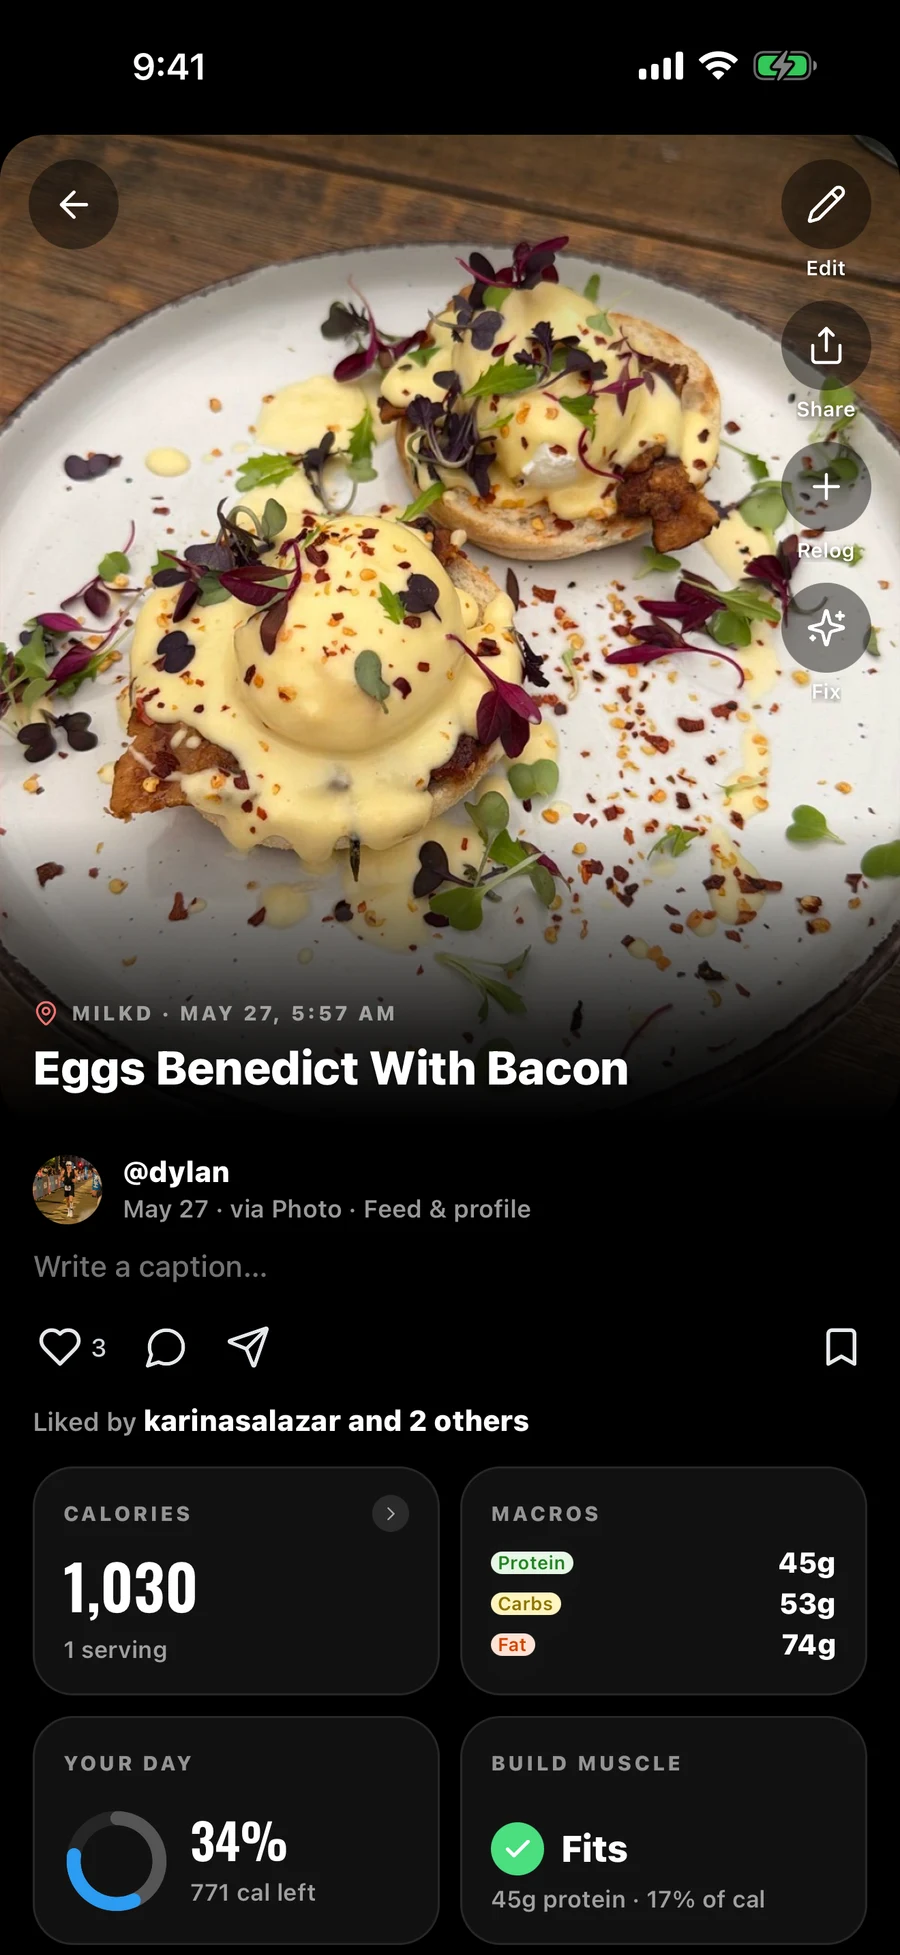
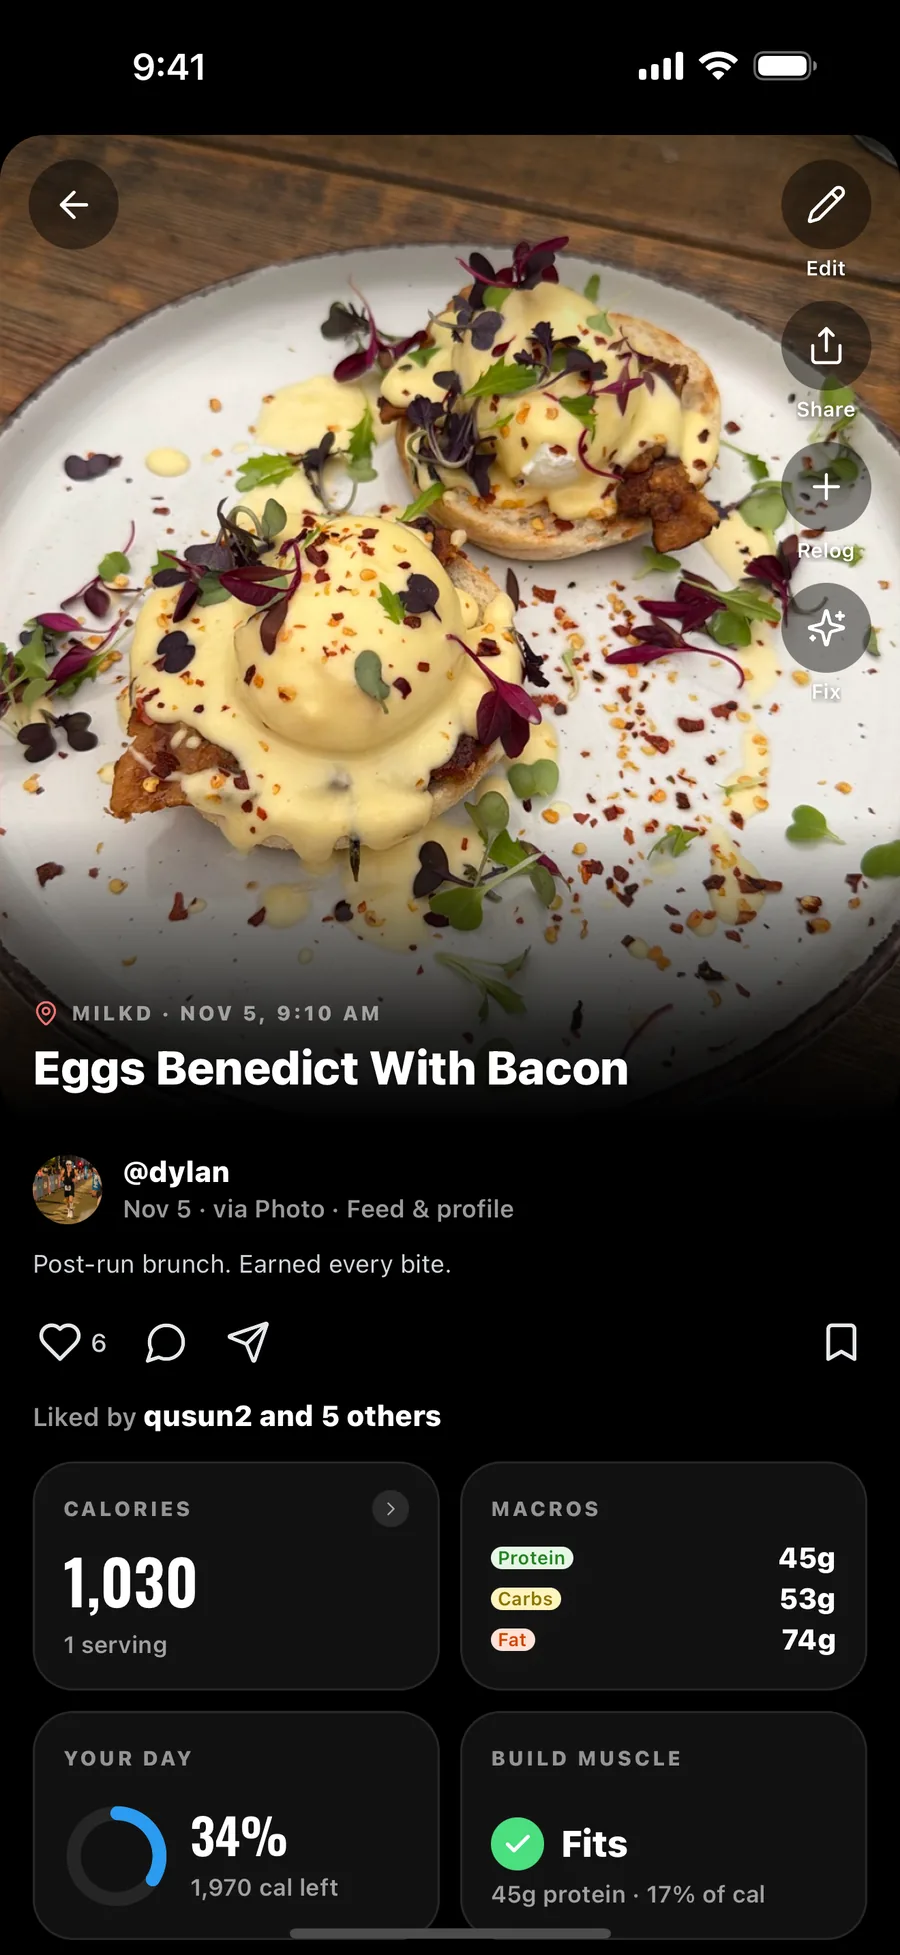
Update app screenshots to the current app
Home with the day arc, the profile from the top (muscle map, meals, run
route), the new Explore, the map, a meal page, a 13.4 mi run and Food
progress, in light and dark, captured from @dylan on the iPhone 16 Pro
Max. Alt text describes the new screens.

diff --git a/src/components/landing/screens.js b/src/components/landing/screens.js
@@ -18,26 +18,26 @@ import darkWorkouts from '@/images/screenshots/current/dark/workouts-grid.webp'
 import flyerProfile from '@/images/screenshots/gym-flyers/profile-light.webp'
 import flyerFeed from '@/images/screenshots/gym-flyers/social-feed-dark.webp'
 
-// Verified October 12 captures. The source's light/tracking-food file shows
-// Fitness, so it is deliberately excluded instead of mislabeled as Food.
+// November 5 captures of @dylan on the 3.5x app (iPhone 16 Pro Max). The
+// light/tracking-food file is older and shows Fitness, so it stays unused.
 export const screens = {
   heroProfile: {
     light: flyerProfile,
-    alt: 'Dylan’s InstaCal profile with All selected and a grid of meals, rides, and strength workouts',
+    alt: 'Dylan’s InstaCal profile with story highlights and a grid of a lifting session’s muscle map, plated meals, and a 13-mile run route',
   },
   heroFeed: {
     dark: flyerFeed,
-    alt: 'InstaCal Following feed showing Dylan’s eggs Benedict meal with calories, macros, likes, and comments',
+    alt: 'InstaCal Home with today’s calories and protein left, the day’s run, meals, and lift on a timeline, and a salad from the For you feed',
   },
   feed: {
     light: lightFeed,
     dark: darkFeed,
-    alt: 'InstaCal Following feed with a shared eggs Benedict meal, macros, likes, and comments',
+    alt: 'InstaCal Home with today’s calories left, a timeline of the day’s run, meals, and lift, a 268-day streak, and the For you feed',
   },
   profile: {
     light: lightProfile,
     dark: darkProfile,
-    alt: 'InstaCal profile with story highlights and a grid of meals, runs, and strength workouts',
+    alt: 'InstaCal profile with story highlights and a grid of plated meals, a run route, and a muscle map for a lifting session',
   },
   map: {
     light: lightMap,
@@ -47,17 +47,17 @@ export const screens = {
   discover: {
     light: lightExplore,
     dark: darkExplore,
-    alt: 'InstaCal Search with meals that fit your macros, trending recipes, and real community plates',
+    alt: 'InstaCal Explore with lunches people loved right now, browse doors for high protein, under 500 calories, recipes, breakfast, routes, and lifts',
   },
   meal: {
     light: lightMeal,
     dark: darkMeal,
-    alt: 'Eggs Benedict in InstaCal with calories, protein, carbs, fat, and how the meal fits the day',
+    alt: 'Eggs Benedict with bacon in InstaCal with calories, macros, likes, and how the meal fits the day and a build-muscle goal',
   },
   run: {
     light: lightRun,
     dark: darkRun,
-    alt: 'A morning run in InstaCal with a Chicago route, distance, time, calories burned, and heart rate',
+    alt: 'A 13.4-mile run in InstaCal with its Chicago lakefront route, moving time, pace, calories burned, and heart rate',
   },
   fitness: {
     light: lightFitness,
@@ -66,7 +66,7 @@ export const screens = {
   },
   food: {
     dark: darkFood,
-    alt: 'InstaCal Food progress with calorie and macro summaries, days on target, streak, Coach, and awards',
+    alt: 'InstaCal Food progress with calories left, macro bars, days on target this week, a 268-day streak, awards, and a live challenge',
   },
   workouts: {
     light: lightWorkouts,
